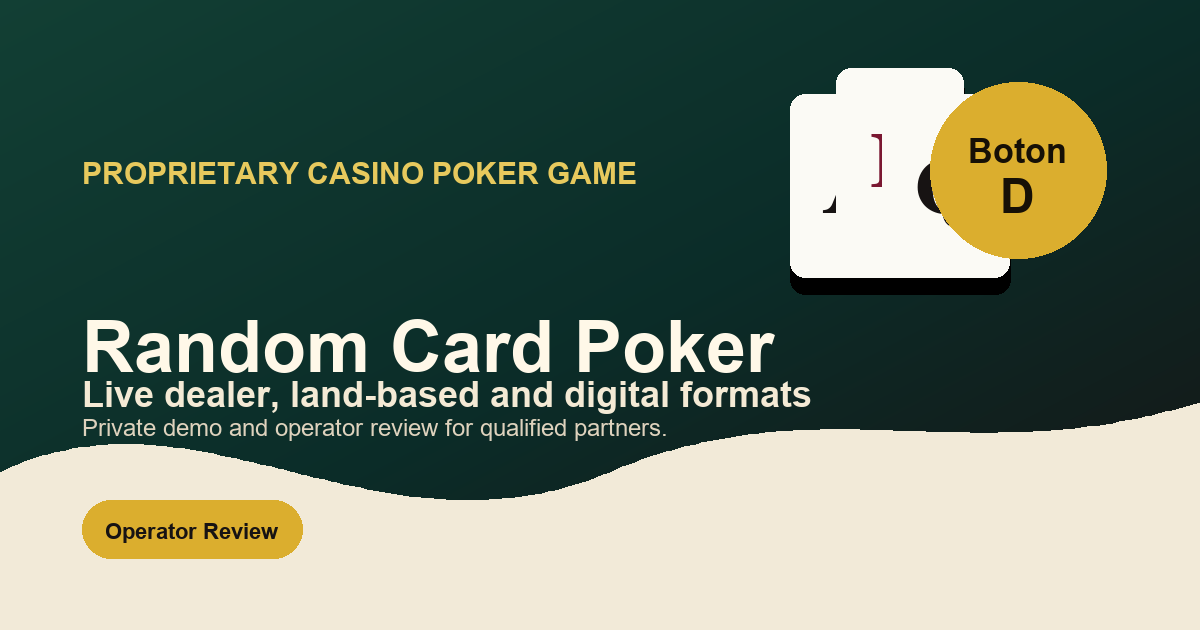
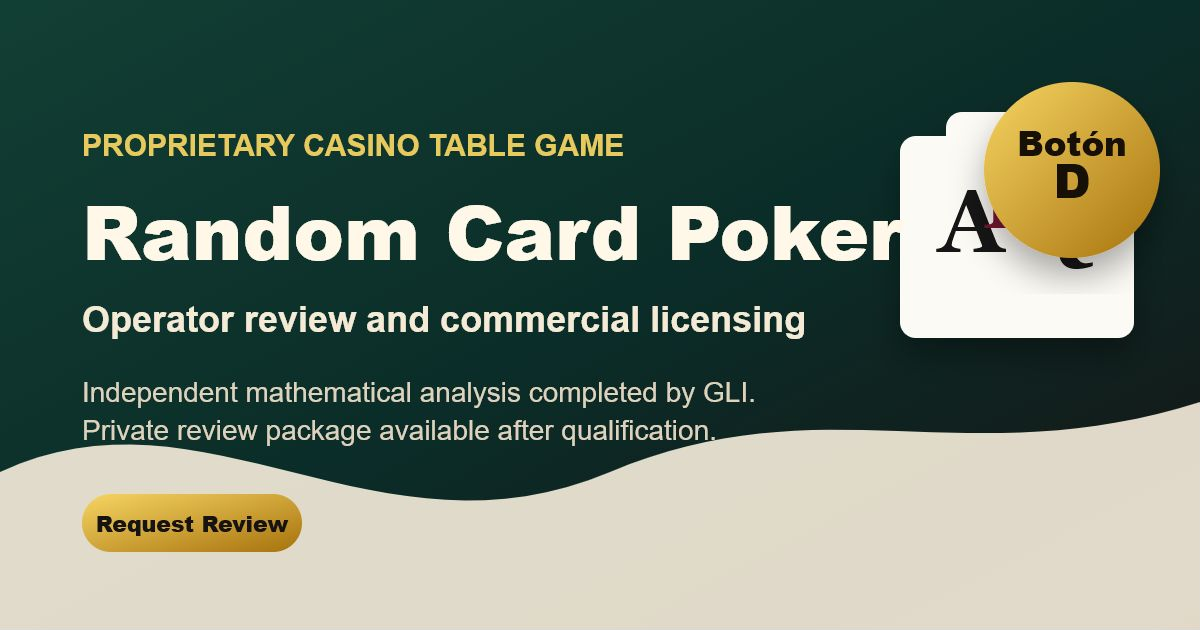
Polish B2B marketing conversion and OG preview

diff --git a/styles.css b/styles.css
@@ -248,6 +248,25 @@ h3 {
   line-height: 1.42;
 }
 
+.hero-trust {
+  display: flex;
+  flex-wrap: wrap;
+  gap: 8px;
+  max-width: 720px;
+  margin-top: 18px;
+}
+
+.hero-trust span {
+  padding: 8px 11px;
+  border: 1px solid rgba(233, 187, 18, 0.34);
+  border-radius: 999px;
+  color: var(--gold);
+  background: rgba(10, 10, 10, 0.68);
+  font-size: 0.76rem;
+  font-weight: 900;
+  text-transform: uppercase;
+}
+
 .hero-subtitle {
   max-width: 680px;
   margin-bottom: 18px;
@@ -260,8 +279,29 @@ h3 {
 .hero-actions {
   display: flex;
   flex-wrap: wrap;
+  align-items: center;
   gap: 14px;
   margin-top: 24px;
+}
+
+.hero-secondary-actions {
+  display: flex;
+  flex-wrap: wrap;
+  gap: 12px 16px;
+  align-items: center;
+}
+
+.hero-secondary-actions a {
+  color: var(--white);
+  font-size: 0.94rem;
+  font-weight: 900;
+  text-decoration: underline;
+  text-decoration-color: rgba(233, 187, 18, 0.5);
+  text-underline-offset: 4px;
+}
+
+.hero-secondary-actions a:hover {
+  color: var(--gold);
 }
 
 .hero-actions + .hero-copy {
@@ -829,6 +869,36 @@ main section {
   line-height: 1.65;
 }
 
+.credibility-section {
+  padding: 78px 0;
+  color: var(--white);
+  background:
+    linear-gradient(135deg, rgba(93, 44, 131, 0.2), rgba(9, 9, 8, 0)),
+    #0f0f0e;
+}
+
+.credibility-panel {
+  display: grid;
+  grid-template-columns: minmax(260px, 0.54fr) minmax(0, 1fr);
+  gap: 48px;
+  align-items: start;
+  padding: 36px 0;
+  border-top: 1px solid rgba(233, 187, 18, 0.26);
+  border-bottom: 1px solid rgba(255, 255, 255, 0.12);
+}
+
+.credibility-panel h2 {
+  margin-bottom: 0;
+  color: var(--white);
+}
+
+.credibility-panel p:not(.eyebrow) {
+  margin: 0;
+  color: var(--muted);
+  font-size: 1.08rem;
+  line-height: 1.74;
+}
+
 .path-section {
   padding: 92px 0;
   color: var(--paper-ink);
@@ -1284,10 +1354,19 @@ main section {
     width: 100%;
   }
 
-  .hero-actions .button-secondary {
-    color: var(--white);
-    border-color: rgba(255, 255, 255, 0.34);
-    background: rgba(8, 8, 8, 0.7);
+  .hero-actions {
+    align-items: stretch;
+  }
+
+  .hero-secondary-actions {
+    width: 100%;
+    flex-direction: column;
+    align-items: flex-start;
+    gap: 9px;
+  }
+
+  .hero-secondary-actions a {
+    font-size: 0.9rem;
   }
 
   .section-shell {
@@ -1300,6 +1379,7 @@ main section {
   .flow-grid,
   .value-grid,
   .format-cards,
+  .credibility-panel,
   .path-steps,
   .package-list,
   .faq-grid,
@@ -1320,6 +1400,7 @@ main section {
   .operator-section,
   .formats-section,
   .experience-band,
+  .credibility-section,
   .path-section,
   .evaluation-section,
   .faq-section,

diff --git a/index.html b/index.html
@@ -47,7 +47,7 @@
         }
       }
     </script>
-    <link rel="stylesheet" href="styles.css?v=b2b-premium-20260702-1">
+    <link rel="stylesheet" href="styles.css?v=b2b-premium-20260702-2">
   </head>
   <body>
     <header class="site-header" aria-label="Primary navigation">
@@ -79,15 +79,22 @@
             Random Card Poker is a proprietary poker-style casino table game built around a shared blind
             community-card reveal through the Bot&oacute;n D&trade; mechanic.
           </p>
+          <div class="hero-trust" aria-label="Commercial trust signals">
+            <span>Independent mathematical analysis completed by GLI</span>
+            <span>Not regulatory approval</span>
+          </div>
           <div class="hero-actions">
             <a class="button button-primary" href="#contact">Request a 20-minute Commercial Introduction</a>
-            <a class="button button-secondary" href="#nda">Request Private Operator Review</a>
-            <a class="button button-secondary" href="#contact">Discuss Licensing or Distribution</a>
+            <span class="hero-secondary-actions">
+              <a href="#nda">Request Private Operator Review</a>
+              <a href="#contact">Discuss Licensing or Distribution</a>
+            </span>
           </div>
           <p class="hero-copy">
             Public information is intentionally high-level. Rules, procedures, paytable structure and
             mathematical materials are reserved for qualified casino operators, live dealer studios,
-            online casino suppliers, distributors, investors and strategic partners under NDA.
+            online casino suppliers, distributors, investors and strategic partners through a protected
+            review process.
           </p>
         </div>
         <div class="hero-showcase" aria-label="Random Card Poker opening card visual">
@@ -108,7 +115,7 @@
             <span class="is-selected"></span>
             <span></span>
           </div>
-          <p>The player makes a decision before the blind community-card reveal completes the active hands.</p>
+          <p>Decision point occurs before the blind community-card reveal completes the active hands.</p>
         </div>
         <dl class="hero-proof" aria-label="Game summary">
           <div>
@@ -186,7 +193,7 @@
             </article>
             <article>
               <span>Private Review</span>
-              <strong>Rules, paytable structure and documentation available under NDA</strong>
+              <strong>Rules, paytable structure and documentation available through protected review</strong>
             </article>
           </div>
         </div>
@@ -200,7 +207,7 @@
             <p>
               GLI completed an independent mathematical analysis of Random Card Poker for commercial
               and technical review purposes. A summary can be shared with qualified operators and
-              partners under NDA as part of the private review package.
+              partners after qualification as part of the private review package.
             </p>
             <p>
               This mathematical analysis does not constitute regulatory approval, certification,
@@ -296,7 +303,7 @@
             <h3>Poker Resolution</h3>
             <p>
               Hands are resolved according to the official game rules and paytable structure,
-              available for qualified review under NDA.
+              available through qualified private review.
             </p>
           </article>
         </div>
@@ -340,7 +347,7 @@
             <article>
               <span>02</span>
               <h3>Clear Presentation</h3>
-              <p>The mechanic can be explained visually while detailed materials remain available under NDA.</p>
+              <p>The mechanic can be explained visually while detailed materials remain reserved for protected review.</p>
             </article>
             <article>
               <span>03</span>
@@ -411,7 +418,7 @@
             <article>
               <span>Casino Operators</span>
               <h3>Land-based and hybrid table-game review</h3>
-              <p>Evaluate game fit, table flow, dealer procedures, jurisdictional pathway and commercial structure under NDA.</p>
+              <p>Evaluate game fit, table flow, dealer procedures, jurisdictional pathway and commercial structure through a protected review process.</p>
             </article>
             <article>
               <span>Live Dealer Studios</span>
@@ -452,7 +459,7 @@
             </article>
             <article>
               <span>Dealer Procedures</span>
-              <strong>Operational sequence, reveal handling and table flow materials available under NDA.</strong>
+              <strong>Operational sequence, reveal handling and table flow materials available for protected review.</strong>
             </article>
             <article>
               <span>Paytable Structure</span>
@@ -460,7 +467,7 @@
             </article>
             <article>
               <span>Mathematical Analysis Summary</span>
-              <strong>GLI mathematical analysis summary available only to qualified parties under NDA.</strong>
+              <strong>GLI mathematical analysis summary available only to qualified parties after qualification.</strong>
             </article>
             <article>
               <span>Table Layout Concept</span>
@@ -516,6 +523,21 @@
         </div>
       </section>
 
+      <section class="credibility-section" id="credibility" aria-labelledby="credibility-title">
+        <div class="section-shell credibility-panel">
+          <div>
+            <p class="eyebrow">Operational Credibility</p>
+            <h2 id="credibility-title">Designed From the Pit, Not Just the Whiteboard.</h2>
+          </div>
+          <p>
+            Random Card Poker was developed by a career casino operations professional with direct pit
+            and table-games management experience. That floor background informs the paytable discipline,
+            dealer procedures and table flow, with sensitive commercial materials reserved for protected
+            operator review.
+          </p>
+        </div>
+      </section>
+
       <section class="faq-section" id="faq" aria-labelledby="faq-title">
         <div class="section-shell">
           <div class="section-heading compact-heading">
@@ -539,7 +561,7 @@
             </article>
             <article>
               <h3>Has independent mathematical analysis been completed?</h3>
-              <p>Yes. GLI completed an independent mathematical analysis. A summary may be shared privately with qualified parties under NDA; it is not a regulatory approval.</p>
+              <p>Yes. GLI completed an independent mathematical analysis. A summary may be shared privately with qualified parties after qualification; it is not a regulatory approval.</p>
             </article>
             <article>
               <h3>What is the estimated timeline from NDA signing to commercial evaluation?</h3>
@@ -569,6 +591,7 @@
             <p>
               For qualified operators, live dealer studios, suppliers, distributors, investors and strategic
               partners. Share the commercial context so the right private review path can be assessed.
+              A response will confirm fit, review scope and whether a private review package is appropriate.
             </p>
             <div class="commercial-contact-card" aria-label="Commercial contact information">
               <p><strong>Commercial Contact:</strong> Random Card Poker</p>
@@ -634,7 +657,7 @@
             </label>
             <label class="checkbox-field full-span">
               <input name="qualified" type="checkbox" required>
-              <span>I confirm this is a qualified commercial inquiry from an operator, supplier, distributor, investor or strategic partner.</span>
+              <span>I confirm this is a qualified commercial inquiry from an operator, studio, supplier, distributor, investor or strategic partner.</span>
             </label>
             <button class="button button-primary full-span" type="submit">Request a 20-minute Commercial Introduction</button>
             <p class="form-status full-span" id="form-status" role="status"></p>
@@ -645,8 +668,8 @@
 
     <footer class="site-footer">
       <div>
-        <p>Random Card Poker | Proprietary casino poker game</p>
-        <p>Commercial review available under NDA</p>
+        <p>Random Card Poker | Proprietary casino table game</p>
+        <p>Protected commercial review available</p>
       </div>
       <nav class="footer-links" aria-label="Footer links">
         <a href="privacy.html">Privacy Policy</a>

diff --git a/privacy.html b/privacy.html
@@ -10,7 +10,7 @@
     <link rel="icon" href="/favicon.ico" sizes="32x32">
     <link rel="icon" href="/favicon.svg" type="image/svg+xml">
     <link rel="apple-touch-icon" href="/apple-touch-icon.png">
-    <link rel="stylesheet" href="styles.css?v=b2b-final-20260701-4">
+    <link rel="stylesheet" href="styles.css?v=b2b-premium-20260702-2">
   </head>
   <body class="legal-page">
     <header class="legal-header">
@@ -63,8 +63,8 @@
 
     <footer class="site-footer">
       <div>
-        <p>Random Card Poker | Proprietary casino poker game</p>
-        <p>Commercial review available under NDA</p>
+        <p>Random Card Poker | Proprietary casino table game</p>
+        <p>Protected commercial review available</p>
       </div>
       <nav class="footer-links" aria-label="Footer links">
         <a href="terms.html">Terms of Use</a>

diff --git a/terms.html b/terms.html
@@ -10,7 +10,7 @@
     <link rel="icon" href="/favicon.ico" sizes="32x32">
     <link rel="icon" href="/favicon.svg" type="image/svg+xml">
     <link rel="apple-touch-icon" href="/apple-touch-icon.png">
-    <link rel="stylesheet" href="styles.css?v=b2b-final-20260701-4">
+    <link rel="stylesheet" href="styles.css?v=b2b-premium-20260702-2">
   </head>
   <body class="legal-page">
     <header class="legal-header">
@@ -62,8 +62,8 @@
 
     <footer class="site-footer">
       <div>
-        <p>Random Card Poker | Proprietary casino poker game</p>
-        <p>Commercial review available under NDA</p>
+        <p>Random Card Poker | Proprietary casino table game</p>
+        <p>Protected commercial review available</p>
       </div>
       <nav class="footer-links" aria-label="Footer links">
         <a href="privacy.html">Privacy Policy</a>